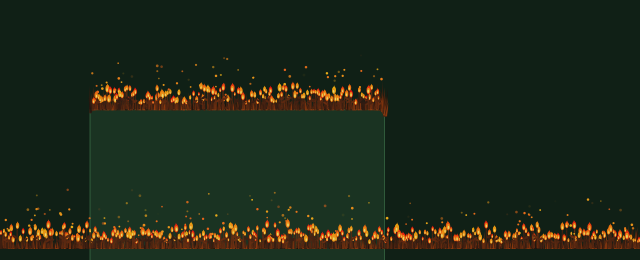
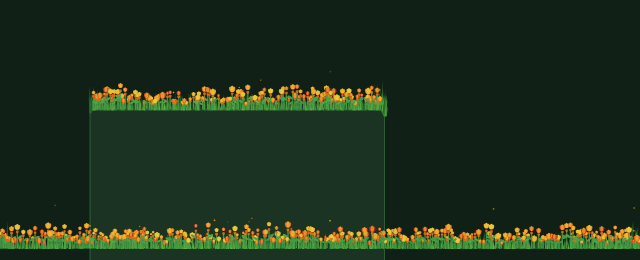
Subtler lightning, fire and void flowers; fire flowers are yellow-to-red tulips with a burnt top quarter of the stem

diff --git a/crates/core/src/sim/flowers.rs b/crates/core/src/sim/flowers.rs
@@ -520,11 +520,11 @@ impl Bed {
     fn emit(&mut self, dt: f32, rng: &mut Rng) {
         let rate = match self.element {
             Element::Natural => return,
-            Element::Fire => 0.5,
+            Element::Fire => 0.08,
             Element::Ice => 0.3,
-            Element::Lightning => 0.3,
+            Element::Lightning => 0.1,
             Element::Matter => 0.22,
-            Element::Void => 0.4,
+            Element::Void => 0.1,
         };
         if self.sparks.len() > 500 {
             return;
@@ -536,7 +536,7 @@ impl Bed {
             }
             let (hx, hy) = (f.x + f.bend, f.root - f.h - f.boost);
             let sp = match self.element {
-                Element::Fire => Spark { x: hx + rng.range(-3.0, 3.0), y: hy - 2.0, vx: rng.range(-8.0, 8.0), vy: -rng.range(25.0, 60.0), life: rng.range(0.5, 1.0), col: Some([1.0, rng.range(0.4, 0.75), 0.1]), g: -4.0, size: rng.range(0.8, 1.4), twinkle: false },
+                Element::Fire => Spark { x: hx + rng.range(-3.0, 3.0), y: hy - 2.0, vx: rng.range(-8.0, 8.0), vy: -rng.range(15.0, 35.0), life: rng.range(0.5, 1.0), col: Some([1.0, rng.range(0.4, 0.75), 0.1]), g: -4.0, size: rng.range(0.6, 1.0), twinkle: false },
                 Element::Ice => Spark { x: hx + rng.range(-7.0, 7.0), y: hy + rng.range(-7.0, 5.0), vx: rng.range(-4.0, 4.0), vy: rng.range(2.0, 10.0), life: rng.range(0.8, 1.5), col: Some([0.82, 0.96, 1.0]), g: 4.0, size: rng.range(0.7, 1.2), twinkle: true },
                 Element::Lightning => Spark { x: hx + rng.range(-6.0, 6.0), y: hy + rng.range(-6.0, 6.0), vx: rng.range(-70.0, 70.0), vy: rng.range(-70.0, 70.0), life: rng.range(0.12, 0.3), col: Some([1.0, 0.96, 0.55]), g: 0.0, size: rng.range(0.6, 1.0), twinkle: false },
                 Element::Matter => Spark { x: hx + rng.range(-8.0, 8.0), y: hy + rng.range(-6.0, 6.0), vx: rng.range(-6.0, 6.0), vy: rng.range(-10.0, 4.0), life: rng.range(1.0, 1.8), col: Some([0.95, 0.75, 0.35]), g: 0.0, size: rng.range(0.7, 1.1), twinkle: false },
@@ -626,11 +626,18 @@ fn element_colors(el: Element, t: f32, rng: &mut Rng) -> (Rgb, Rgb, Rgb) {
             let center = if rng.chance(0.7) { [1.0, 0.85, 0.25] } else { palette::mix(col, [1.0, 1.0, 1.0], 0.6) };
             (col, center, palette::mix(palette::STEM, [0.55, 0.85, 0.35], rng.f() * 0.7))
         }
-        Element::Lightning => (palette::mix([1.0, 0.95, 0.35], [0.65, 0.82, 1.0], t), [1.0, 1.0, 1.0], palette::mix([0.2, 0.42, 0.4], [0.5, 0.6, 0.2], rng.f())),
-        Element::Fire => (palette::hsv(t * 0.12, 0.95, 1.0), [1.0, 0.92, 0.45], palette::mix([0.2, 0.1, 0.07], [0.45, 0.18, 0.06], rng.f())),
+        // Pale yellows and blue-whites, otherwise an ordinary flower.
+        Element::Lightning => (palette::mix([1.0, 0.93, 0.45], [0.8, 0.9, 1.0], t), [1.0, 1.0, 0.92], palette::mix(palette::STEM, [0.45, 0.6, 0.3], rng.f() * 0.5)),
+        // Tulips from yellow through orange to red.
+        Element::Fire => {
+            let (yellow, orange, red) = ([1.0, 0.85, 0.2], [1.0, 0.5, 0.1], [0.86, 0.12, 0.08]);
+            let col = if t < 0.5 { palette::mix(yellow, orange, t * 2.0) } else { palette::mix(orange, red, (t - 0.5) * 2.0) };
+            (col, [1.0, 0.9, 0.35], palette::mix(palette::STEM, [0.5, 0.8, 0.3], rng.f() * 0.5))
+        }
         Element::Ice => (palette::mix([0.62, 0.88, 1.0], [0.95, 1.0, 1.0], t), [1.0, 1.0, 1.0], palette::mix([0.5, 0.72, 0.85], [0.75, 0.9, 0.95], rng.f())),
         Element::Matter => (palette::mix([0.82, 0.62, 0.24], [0.5, 0.42, 0.34], t), [0.22, 0.18, 0.13], palette::mix([0.35, 0.4, 0.18], [0.5, 0.45, 0.2], rng.f())),
-        Element::Void => (palette::mix([0.2, 0.05, 0.36], [0.5, 0.12, 0.65], t), [0.02, 0.0, 0.05], palette::mix([0.1, 0.04, 0.18], [0.22, 0.08, 0.34], rng.f())),
+        // Deep violet petals with a very dark heart.
+        Element::Void => (palette::mix([0.26, 0.1, 0.46], [0.46, 0.2, 0.66], t), [0.05, 0.0, 0.1], palette::mix(palette::STEM, [0.3, 0.45, 0.35], rng.f() * 0.5)),
     }
 }
 
@@ -638,11 +645,11 @@ fn element_colors(el: Element, t: f32, rng: &mut Rng) -> (Rgb, Rgb, Rgb) {
 fn grass_colors(el: Element) -> (Rgb, Rgb) {
     match el {
         Element::Natural => ([0.12, 0.42, 0.16], [0.40, 0.76, 0.26]),
-        Element::Lightning => ([0.08, 0.3, 0.25], [0.72, 0.86, 0.22]),
-        Element::Fire => ([0.14, 0.08, 0.06], [0.62, 0.24, 0.05]),
+        Element::Lightning => ([0.12, 0.4, 0.2], [0.46, 0.76, 0.24]),
+        Element::Fire => ([0.12, 0.42, 0.16], [0.40, 0.76, 0.26]),
         Element::Ice => ([0.45, 0.66, 0.8], [0.82, 0.95, 1.0]),
         Element::Matter => ([0.25, 0.25, 0.12], [0.56, 0.5, 0.2]),
-        Element::Void => ([0.07, 0.03, 0.14], [0.3, 0.1, 0.45]),
+        Element::Void => ([0.1, 0.33, 0.2], [0.3, 0.6, 0.34]),
     }
 }
 
@@ -659,6 +666,9 @@ fn new_flower(x: f32, root: f32, rng: &mut Rng, replacing: Option<(u8, f32)>, el
         }
     }
     let (col, center, stem) = element_colors(element, hue, rng);
+    if element == Element::Fire {
+        kind = 1; // tulips
+    }
     // Each one is between 60% and 100% of full size.
     let scale = rng.range(0.6, 1.0);
     Flower {
@@ -691,38 +701,12 @@ fn smooth(a: f32, b: f32, x: f32) -> f32 {
 
 impl Flower {
     /// The head of a flower made of an element, with its own life (flicker, orbiting motes, twinkling).
-    fn element_head(&self, b: &mut Batch, hx: f32, hy: f32, s: f32, el: Element, t: f32, glow: Rgb) {
+    fn element_head(&self, b: &mut Batch, hx: f32, hy: f32, s: f32, el: Element, t: f32, _glow: Rgb) {
         use std::f32::consts::TAU;
         let ph = self.phase;
         let c = [self.col[0], self.col[1], self.col[2], 1.0];
         let cc = [self.center[0], self.center[1], self.center[2], 1.0];
         match el {
-            Element::Lightning => {
-                let n = 5 + (self.kind % 3) as usize;
-                for k in 0..n {
-                    let a = k as f32 / n as f32 * TAU + ph;
-                    let flick = 0.8 + 0.4 * (t * 18.0 + k as f32 * 2.3 + ph).sin();
-                    let tip = s * 1.55 * flick;
-                    let (l, r) = (a - 0.28, a + 0.28);
-                    b.tri([hx + l.cos() * s * 0.35, hy + l.sin() * s * 0.35], [hx + r.cos() * s * 0.35, hy + r.sin() * s * 0.35], [hx + a.cos() * tip, hy + a.sin() * tip], c);
-                }
-                b.disc(hx, hy, s * 0.62, [glow[0], glow[1], glow[2], 0.35]);
-                b.disc(hx, hy, s * 0.42, cc);
-                if (t * 11.0 + ph * 3.0).sin() > 0.82 {
-                    // A crackle of lightning leaping off the head.
-                    let pts = [[hx, hy - s * 0.5], [hx + s * 0.5, hy - s * 1.3], [hx - s * 0.3, hy - s * 2.0], [hx + s * 0.4, hy - s * 2.8]];
-                    for w in pts.windows(2) {
-                        b.line(w[0], w[1], 1.0, [1.0, 1.0, 1.0, 0.9]);
-                    }
-                }
-            }
-            Element::Fire => {
-                let fl = (t * 9.0 + ph).sin() * 0.25 * s;
-                b.ellipse(hx + fl * 0.5, hy - s * 0.35, s * 0.62, s * 1.15, fl * 0.05, c);
-                b.tri([hx - s * 0.4, hy - s * 0.7], [hx + s * 0.4, hy - s * 0.7], [hx + fl, hy - s * 1.95], c);
-                b.ellipse(hx + fl * 0.3, hy - s * 0.2, s * 0.42, s * 0.8, 0.0, [1.0, 0.62, 0.12, 1.0]);
-                b.ellipse(hx, hy, s * 0.24, s * 0.45, 0.0, cc);
-            }
             Element::Ice => {
                 for k in 0..6 {
                     let a = k as f32 / 6.0 * TAU + ph * 0.3;
@@ -751,16 +735,7 @@ impl Flower {
                     b.disc(hx + a.cos() * s * 1.35, hy + a.sin() * s * 0.95, s * 0.18, [0.95, 0.78, 0.38, 0.9]);
                 }
             }
-            _ => {
-                b.disc(hx, hy, s * 1.9, [0.15, 0.0, 0.3, 0.3]);
-                b.disc(hx, hy, s * 0.85, cc);
-                b.disc(hx, hy, s * 0.5, c);
-                for k in 0..8 {
-                    let a = t * 2.2 + k as f32 * 0.785 + ph;
-                    b.disc(hx + a.cos() * s * 1.0, hy + a.sin() * s * 1.0, s * 0.17, [0.9, 0.35, 1.0, 1.0]);
-                }
-                b.disc(hx, hy, s * 0.2, [0.02, 0.0, 0.05, 1.0]);
-            }
+            _ => {}
         }
     }
 
@@ -775,7 +750,7 @@ impl Flower {
         let sc = [self.stem[0], self.stem[1], self.stem[2], 1.0];
         // One art pixel wide in the pixel renderer, a fine line otherwise.
         let width = if pixel_size > 0.0 { pixel_size } else { 1.3 };
-        let segs = if h < 10.0 { 2 } else { 4 };
+        let segs = if h < 10.0 && el != Element::Fire { 2 } else { 4 };
         // Light given off by the plant being played with: a parabola of light standing on it (widest at the
         // ground, narrowing to the head), a halo along the stem and one around the head.
         if self.excite > 0.03 {
@@ -801,7 +776,13 @@ impl Flower {
         let mut prev = at(0.0);
         for i in 1..=segs {
             let p = at(i as f32 / segs as f32);
-            b.line(prev, p, width, sc);
+            // A fire flower's stem is burnt through its top quarter: charred black, with a glowing edge.
+            let burnt = el == Element::Fire && i == segs;
+            b.line(prev, p, width, if burnt { [0.13, 0.08, 0.06, 1.0] } else { sc });
+            if burnt {
+                let at_edge = at(1.0 - 1.0 / segs as f32);
+                b.disc(at_edge[0], at_edge[1], width * 0.7 + 0.3 + 0.3 * (t * 6.0 + self.phase).sin().abs(), [1.0, 0.45, 0.08, 0.9]);
+            }
             prev = p;
         }
         if h > 10.0 {
@@ -818,7 +799,7 @@ impl Flower {
         let c = [self.col[0], self.col[1], self.col[2], 1.0];
         let cc = [self.center[0], self.center[1], self.center[2], 1.0];
         let [hx, hy] = head;
-        if el != Element::Natural {
+        if matches!(el, Element::Ice | Element::Matter) {
             self.element_head(b, hx, hy, s, el, t, glow);
             return;
         }
@@ -833,7 +814,8 @@ impl Flower {
             1 => {
                 b.ellipse(hx - s * 0.4, hy, s * 0.45, s * 0.8, -0.3, c);
                 b.ellipse(hx + s * 0.4, hy, s * 0.45, s * 0.8, 0.3, c);
-                b.ellipse(hx, hy - s * 0.15, s * 0.5, s * 0.9, 0.0, [self.col[0] * 0.9, self.col[1] * 0.9, self.col[2] * 0.9, 1.0]);
+                let cen = if el == Element::Fire { palette::mix(self.col, [1.0, 0.9, 0.3], 0.55) } else { [self.col[0] * 0.9, self.col[1] * 0.9, self.col[2] * 0.9] };
+                b.ellipse(hx, hy - s * 0.15, s * 0.5, s * 0.9, 0.0, [cen[0], cen[1], cen[2], 1.0]);
             }
             2 => {
                 b.tri([hx - s * 0.7, hy - s * 0.1], [hx + s * 0.7, hy - s * 0.1], [hx, hy + s * 0.9], c);
